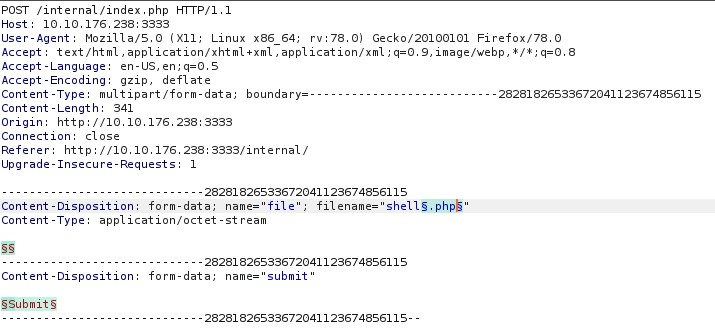
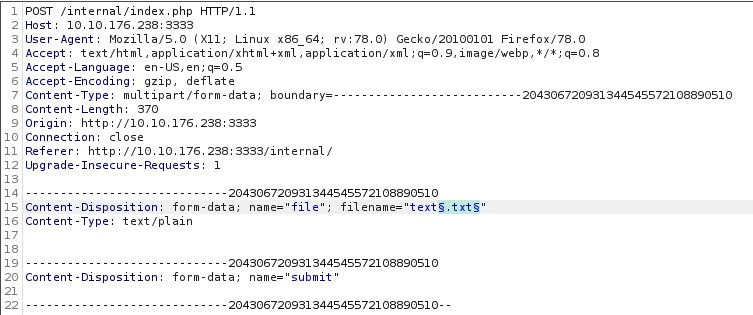
Update 2021-06-24-Vulnversity.md

Changed region(s): [[0.0, 0.0, 1.0, 1.0]]

diff --git a/TryHackMe/Offensive Pentesting/_posts/2021-06-24-Vulnversity.md b/TryHackMe/Offensive Pentesting/_posts/2021-06-24-Vulnversity.md
@@ -79,12 +79,15 @@ To find out which extions are blocked we can fuzzing. There are two ways to do t
     </ul>
     Now that we have that, we need to click on the <em>Intruder</em> option, it should be right next to <em>Proxy</em>. Under <em>Payload</em> click <em>Load ...</em> and load the phptext.txt that we created earlier.<br>
     For the attack to work correctly we need to first capture and upload. Make sure that your browser is on the upload form page. Next click on the <em>Submit</em> button and you should see this appear in burp.
-    <img src="/assets/task4.3" alt="Task 4.3"><br>
+    <img src="/assets/task4.3.jpg" alt="Task 4.3"><br>
     Now we send it to <em>Intruder</em>, we can either use <code>Ctrl+I</code>, or the <em>Action</em> button and then <em>Send to Intruder</em>.<br>
     Next we need to update the filename line to look like this. Click the Clear option on the side, then type <code>shell.php</code> after the filename=<br>
     Next highlight the .php you just added and click on the add button on the side.
     It should look like this.
-    <img src="assets/task4.4" alt="Task 4.4"><br>
+    <img src="assets/task4.4.jpg" alt="Task 4.4"><br>
+    Make sure you go to <em>Payloads</em>, and at the very bottom turn off encoding. It will not work otherwise.<br>
+    Next go to options andd down to Grep - Match and turn it on. Next click clear, and then add <code>Extension Not Allowed</code>. It should look like this.
+    <img src="/assets/task4.5.jpg" alt="Task 4.5">
 
 </details>
 <details>
